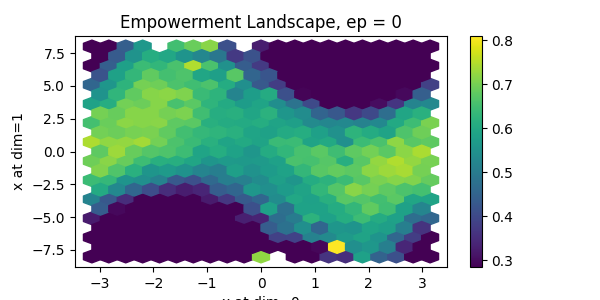
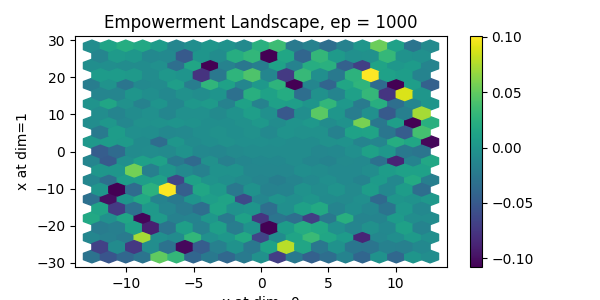
batch dimension added so ode can be computed for batch

diff --git a/envs/env_reacher.py b/envs/env_reacher.py
@@ -8,7 +8,7 @@ from gym import spaces
 from envs.env_abs import AbsEnv
 
 
-class ReacherEnv(AbsEnv):
+class Env(AbsEnv):
     dt = .2
 
     LINK_LENGTH_1 = 1.  # [m]
@@ -28,10 +28,10 @@ class ReacherEnv(AbsEnv):
         dtype=np.float32
     )
 
-    high = np.array([1., 1., 1., 1., 1., 1., 1., 1.], dtype=np.float32)
+    high = np.array([1., 1., 1., 1.], dtype=np.float32)
     observation_space = spaces.Box(
         low=-high,
-        high=high, shape=(8,),
+        high=high, shape=(4,),
         dtype=np.float32
     )
 
@@ -89,7 +89,8 @@ class ReacherEnv(AbsEnv):
         self.state = ns
         terminal = self._terminal()
         reward = -1. if not terminal else 0.
-        return (self._get_ob(), reward, terminal, {})
+        # return (self._get_ob(), reward, terminal, {})
+        return self.state, reward, terminal, {}
 
     def _terminal(self):
         s = self.state
@@ -120,7 +121,8 @@ class ReacherEnv(AbsEnv):
     def reset(self):
         self._reset_target()
         self._reset_state()
-        return self._get_ob()
+        # return self._get_ob()
+        return self.state
 
     def render(self, mode='human'):
         from gym.envs.classic_control import rendering
@@ -165,7 +167,7 @@ class ReacherEnv(AbsEnv):
         pass
 
 
-class Reacher(nn.Module, ReacherEnv):
+class ReacherEnv(nn.Module, Env):
     def __init__(self):
         super().__init__()
         self.t0 = nn.Parameter(torch.tensor([0.0]))
@@ -173,7 +175,7 @@ class Reacher(nn.Module, ReacherEnv):
         self.init_u = nn.Parameter(torch.tensor([.0, .0]))
 
     def get_initial_state_action(self):
-        state = (self.init_s, self.init_u)
+        state = (self.init_s.unsqueeze(0), self.init_u.unsqueeze(0))
         return self.t0, state
 
     def forward(self, t, s):
@@ -184,9 +186,9 @@ class Reacher(nn.Module, ReacherEnv):
 
         s, u = s
 
-        tau1, tau2 = torch.split(u, 1, dim=0)
-        theta1, theta2 = torch.split(s[:2], 1, dim=0)
-        dtheta1, dtheta2 = torch.split(s[2:], 1, dim=0)
+        tau1, tau2 = torch.split(u, 1, dim=1)
+        theta1, theta2 = torch.split(s[:, :2], 1, dim=1)
+        dtheta1, dtheta2 = torch.split(s[:, 2:], 1, dim=1)
 
         # run equations_of_motion() to compute these
         ddtheta1 = (-L1 * torch.cos(theta2) - L2) * (-L1 * L2 * dtheta1 ** 2 * m2 * torch.sin(theta2) + tau2) / (
@@ -201,14 +203,16 @@ class Reacher(nn.Module, ReacherEnv):
                                L1 ** 2 * L2 ** 2 * m1 * m2 - L1 ** 2 * L2 ** 2 * m2 ** 2 * torch.cos(
                            theta2) ** 2 + L1 ** 2 * L2 ** 2 * m2 ** 2)
 
-        return (dtheta1, dtheta2, ddtheta1, ddtheta2, torch.tensor([0.]), torch.tensor([0.]))
+        return (dtheta1, dtheta2, ddtheta1, ddtheta2, torch.zeros_like(tau1), torch.zeros_like(tau2))
 
     def step_batch(self, x, u):
-        s_aug = (x, u)
-        solution = odeint(self, s_aug, torch.tensor([0, self.dt]), atol=1e-8, rtol=1e-8)
-        state, action = solution
-        return state
+        u = torch.max(torch.min(u, torch.tensor([1., 1.])), torch.tensor([-1., -1.]))
 
+        s_aug = (x, u)
+        solution = odeint(self, s_aug, torch.tensor([0, self.dt]), method='rk4')
+        state, action = solution
+
+        return state[-1]
 
 def wrap(x, m, M):
     """Wraps ``x`` so m <= x <= M; but unlike ``bound()`` which
@@ -295,8 +299,8 @@ def equations_of_motion():
 def visualize(t, solution):
     t = t.detach().cpu().numpy()
     state, action = solution
-    theta = state[:, :2].detach().cpu().numpy()
-    dtheta = state[:, 2:].detach().cpu().numpy()
+    theta = state[:, 0, :2].detach().cpu().numpy()
+    dtheta = state[:, 0, 2:].detach().cpu().numpy()
 
     fig = plt.figure(figsize=(8, 4), facecolor='white')
     ax_theta = fig.add_subplot(121, frameon=False)
@@ -326,22 +330,23 @@ if __name__ == '__main__':
     import matplotlib.pyplot as plt
     import imageio
 
-    system = Reacher()
+    system = ReacherEnv()
     frames = []
 
-    for _ in range(32):
-        t0, state_action = system.get_initial_state_action()
-        system.state = state_action[0].detach().numpy()
-        for _ in range(100):
-            a = system.action_space.sample()
-
-            state = system.step_batch(x=torch.from_numpy(system.state).float(), u=torch.from_numpy(a).float())
-            system.state = state[-1].detach().numpy()   # only need last time state
-
-            f = system.render(mode='rgb_array')
-            frames.append(f)
-        break
-    imageio.mimsave('../img/video.gif', frames)
+    # for _ in range(32):
+    #     t0, state_action = system.get_initial_state_action()
+    #     system.state = state_action[0].detach().numpy()
+    #     for _ in range(100):
+    #         a = system.action_space.sample()
+    #
+    #         state = system.step_batch(x=torch.from_numpy(system.state).float().unsqueeze(0),
+    #                                   u=torch.from_numpy(a).float().unsqueeze(0))
+    #         system.state = state.squeeze(0).detach().numpy()   # only need last time state
+    #
+    #         f = system.render(mode='rgb_array')
+    #         frames.append(f)
+    #     break
+    # imageio.mimsave('../img/video.gif', frames)
 
     t0, state_action = system.get_initial_state_action()
     t = torch.linspace(0., 25., 10)

diff --git a/train/empowerment_train.py b/train/empowerment_train.py
@@ -6,12 +6,7 @@ from collections import namedtuple
 import matplotlib.pyplot as plt
 
 
-from envs.env_pendulum import PendulumEnv
-from envs.env_ball_box import BallBoxEnv
-from envs.env_sigmoid import SigmoidEnv
-from envs.env_tanh2d import Tanh2DEnv
-#from envs.env_reacher import ReacherEnv
-from envs.env_arm import ArmEnv
+from envs import *
 from empowerment.empowerment import Empowerment
 from controller import Controller
 from filters.bayes_filter import BayesFilter
@@ -23,7 +18,7 @@ from empowerment.empowerment_viz import visualize_empowerment_landschape_1D, vis
 Record = namedtuple('Transition', ['ep', 'E'])
 
 
-def train_empowerment(env, empowerment, bayes_filter, replay_memory, args):
+def train_empowerment(env, empowerment, replay_memory, args, bayes_filter=None):
     records = [None] * args.num_epochs
 
     for i in range(args.num_epochs):
@@ -76,7 +71,7 @@ def main():
     parser.add_argument('--trial_len', type=int, default=32, help='number of steps in each trial')
     parser.add_argument('--n_subseq', type=int, default=4,
                         help='number of subsequences to divide each sequence into')
-    parser.add_argument('--env', type=int, default=0,
+    parser.add_argument('--env', type=int, default=4,
                         help='0=pendulum, 1=ball in box, 2=sigmoid, 3=tanh2d')
     parser.add_argument('--filter_type', type=int, default=1,
                         help='0=bayes filter, 1=bayes filter fully connected')
@@ -105,18 +100,22 @@ def main():
 
     controller = Controller(env)
     replay_memory = ReplayMemory(args, controller=controller, env=env)
-    if args.filter_type == 0:
-        bayes_filter = BayesFilter.init_from_save()
-    elif args.filter_type == 1:
-        bayes_filter = BayesFilterFullyConnected.init_from_save()
-    elif args.filter_type == 2:
-        bayes_filter = SimpleFilter.init_from_save()
 
     # assert bayes_filter.T == replay_memory.seq_length
 
-    empowerment = Empowerment(env, controller=controller, transition_network=bayes_filter, use_filter=args.use_filter)
+    empowerment = Empowerment(env, controller=controller)
+    if args.use_filter:
+        if args.filter_type == 0:
+            bayes_filter = BayesFilter.init_from_save()
+        elif args.filter_type == 1:
+            bayes_filter = BayesFilterFullyConnected.init_from_save()
+        elif args.filter_type == 2:
+            bayes_filter = SimpleFilter.init_from_save()
+        empowerment.set_transition(bayes_filter)
 
-    train_empowerment(env, empowerment, bayes_filter, replay_memory, args)
+        train_empowerment(env, empowerment, replay_memory, args, bayes_filter)
+    else:
+        train_empowerment(env, empowerment, replay_memory, args)
 
 
 if __name__ == '__main__':

diff --git a/empowerment/empowerment.py b/empowerment/empowerment.py
@@ -33,17 +33,14 @@ class Net(nn.Module):
 
 
 class Empowerment(nn.Module):
-    def __init__(self, env, controller, transition_network, use_filter):
+    def __init__(self, env, controller):
         super(Empowerment, self).__init__()
         self.h_dim = 128
         self.action_dim = controller.action_space.shape[0]
-        self.transition = transition_network
-        if use_filter:
-            self.z_dim = transition_network.z_dim
-        else:
-            self.z_dim = env.observation_space.shape[0]
 
         self.env = env
+        self.z_dim = env.observation_space.shape[0]
+
         self.source = Net(self.z_dim, self.action_dim, self.h_dim)
         self.planning = Net(self.z_dim*2, self.action_dim, self.h_dim)
         self.auto_regressive = Net(self.z_dim * 2 + self.action_dim, self.action_dim, self.h_dim)
@@ -52,11 +49,15 @@ class Empowerment(nn.Module):
                                     + list(self.auto_regressive.parameters()), lr=1e-4)
         self.optimizer_source = optim.Adam(self.source.parameters(), lr=1e-5)
         self.planning_steps = 4
-        self.use_filter = use_filter
+        self.use_filter = False
         self.step = env.step_batch
         self.cast = lambda x: x
 
         self.it = 0
+
+    def set_transition(self, transition_network):
+        self.transition = transition_network
+        self.z_dim = transition_network.z_dim
 
     def forward(self, z):
         z = self.cast(z)

diff --git a/empowerment/empowerment_viz.py b/empowerment/empowerment_viz.py
@@ -94,14 +94,19 @@ def visualize_empowerment_landschape_2D(args, empowerment, bayes_filter, replay_
     x, e = [], []
     for b in range(replay_memory.n_batches_train):
         batch_dict = replay_memory.next_batch_train()
-        x_in = torch.from_numpy(batch_dict["states"])[:, :bayes_filter.T]
-        u_in = torch.from_numpy(batch_dict['inputs'])[:, :bayes_filter.T - 1]
-        x.append(x_in)
 
         if args.use_filter:
+            x_in = torch.from_numpy(batch_dict["states"])[:, :bayes_filter.T]
+            u_in = torch.from_numpy(batch_dict['inputs'])[:, :bayes_filter.T - 1]
+            x.append(x_in)
+
             x_, _, z_out, _ = bayes_filter.propagate_solution(x_in, u_in)
             e_out = empowerment(z_out.view(-1, bayes_filter.z_dim))
         else:
+            x_in = torch.from_numpy(batch_dict["states"])[:, :]
+            u_in = torch.from_numpy(batch_dict['inputs'])[:, :-1]
+            x.append(x_in)
+
             e_out = empowerment(x_in.view(-1, x_in.shape[2]))
         e.append(e_out)
 
@@ -110,7 +115,7 @@ def visualize_empowerment_landschape_2D(args, empowerment, bayes_filter, replay_
     if args.env == 0:
         x1 = np.arctan2(x[:, 1], x[:, 0])
         x2 = x[:, 2]
-    elif args.env == 5:
+    elif args.env == 4 or args.env == 5:    # arm or reacher
         x1 = x[:, -2]
         x2 = x[:, -1]
     else:
